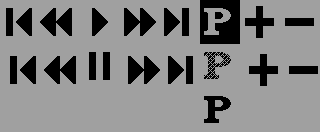
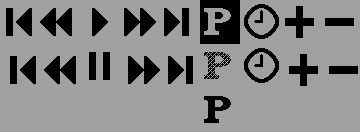
Issue #96 - Add Anim Set Rate to menu and anim toolbar

Changed region(s): [[0.0312, 0.0, 0.9062, 0.3333], [0.0312, 0.3636, 0.9375, 0.6667], [0.5625, 0.7273, 0.7188, 0.9394]]

diff --git a/libs/animation.py b/libs/animation.py
@@ -96,7 +96,7 @@ class PalKeyListGadget(ListGadget):
                             self.drawGhost(screen, bgcolor, [x+offset[0]+2*px, y+offset[1]+2*py+(i-topi)*font.ysize, w-4*px, font.ysize])
                 screen.set_clip(None)
 
-        
+
 
 class Frame:
     def __init__(self, image=None, delay=3, pal=None, truepal=None, is_pal_key = False):
@@ -263,6 +263,9 @@ class Animation:
 
     def pal_keyframe_list(self):
         self.pal_keyframe_list_req(config.pixel_req_canvas)
+
+    def fps_list(self):
+        self.fps_list_req(config.pixel_req_canvas)
 
     def play(self, loop=False, ping_pong=False, reverse=False, stop=False):
         #print(f"play({loop=}, {ping_pong=}, {reverse=}, {stop=})")
@@ -871,3 +874,191 @@ Frames: ___________________
         config.recompose()
 
         return result
+
+
+    def format_fps(self, delay):
+        fps_str = "  0"
+        if delay > 60:
+            fps_str = ("%1.2f" % (60 / delay))[-3:]
+        elif delay != 0:
+            fps_str = "%3d" % (60 // delay)
+        return fps_str
+
+    def format_delay(self, delay):
+        delay_str = "%4d" % delay
+        return delay_str
+
+    def format_range(self, low, high):
+        if low == high:
+            range_str = "%4d" % (low)
+        else:
+            range_str = "%4d-%d" % (low, high)
+        range_str = range_str + " "*9
+        range_str = range_str[:9]
+        return range_str
+
+    def get_fps_list(self, list_itemsg, delay_list):
+        fps_list = []
+        starti = 1
+        last_delay = delay_list[0]
+        for i in range(len(delay_list)):
+            if delay_list[i] != last_delay:
+                fps_str = self.format_fps(last_delay)
+                delay_str = self.format_delay(last_delay)
+                range_str = self.format_range(starti, i)
+                fps_list.append("%s %s %s" % (fps_str, delay_str, range_str))
+                starti = i+1
+                last_delay = delay_list[i]
+
+        if starti <= config.anim.num_frames:
+            i = config.anim.num_frames
+            fps_str = self.format_fps(delay_list[i-1])
+            delay_str = self.format_delay(delay_list[i-1])
+            range_str = self.format_range(starti, i)
+            fps_list.append("%s %s %s" % (fps_str, delay_str, range_str))
+
+        list_itemsg.items = fps_list
+        list_itemsg.top_item = 0
+        list_itemsg.value = 0
+        list_itemsg.need_redraw = True
+
+    def fps_list_req(self, screen):
+        req = str2req("Set Animation Rate", """
+    Delay Frame
+FPS 1/60s Range
+###################^^ FPS:_____
+###################@@ Delay:_____
+###################@@ [All Frames]
+###################@@ [This Frame]
+###################@@ ____________
+###################@@
+###################@@ [Update]
+###################@@
+###################@@
+###################^^
+[Cancel][Undo][OK]
+""", "#^@", mouse_pixel_mapper=config.get_mouse_pixel_pos, custom_gadget_type=ListGadget, font=config.font)
+        req.center(screen)
+        config.pixel_req_rect = req.get_screen_rect()
+
+        #list items
+        list_itemsg = req.gadget_id("0_2")
+        delay_list = []
+        for i in range(config.anim.num_frames):
+            delay_list.append(config.anim.frame[i].delay)
+        self.get_fps_list(list_itemsg, delay_list)
+
+        #list up/down arrows
+        list_upg = req.gadget_id("19_2")
+        list_upg.value = -1
+        list_downg = req.gadget_id("19_11")
+        list_downg.value = 1
+
+        #list slider
+        list_sliderg = req.gadget_id("19_3")
+        list_sliderg.value = list_itemsg.top_item
+
+        #all list item gadgets
+        listg_list = [list_itemsg, list_upg, list_downg, list_sliderg]
+        list_itemsg.listgadgets = listg_list
+        list_upg.listgadgets = listg_list
+        list_downg.listgadgets = listg_list
+        list_sliderg.listgadgets = listg_list
+
+        items = list_itemsg.items[0].split()
+
+        #Frames Per Second
+        fpsg = req.gadget_id("26_2")
+        fpsg.value = items[0]
+        fpsg.numonly = True
+        fpsg.need_redraw = True
+
+        #Delay (1/60s)
+        delayg = req.gadget_id("28_3")
+        delayg.value = items[1]
+        delayg.numonly = True
+        delayg.need_redraw = True
+
+        #Frame Range
+        frangeg = req.gadget_id("22_6")
+        frangeg.value = items[2]
+        frangeg.need_redraw = True
+
+        req.draw(screen)
+        config.recompose()
+
+        running = 1
+        refresh_fields = False
+        while running:
+            event = pygame.event.wait()
+            gevents = req.process_event(screen, event)
+
+            if event.type == KEYDOWN:
+                if event.key == K_ESCAPE:
+                    running = 0
+                elif event.key in [K_UP, K_DOWN]:
+                    refresh_fields = True
+
+            for ge in gevents:
+                if ge.gadget == list_itemsg:
+                    refresh_fields = True
+
+                if ge.gadget == fpsg:
+                    if re.fullmatch('^\d*\.?\d+$', fpsg.value) and \
+                       float(fpsg.value) > 0:
+                        delayg.value = str(int(60 / float(fpsg.value)))
+                        delayg.need_redraw = True
+                elif ge.gadget == delayg:
+                    if re.fullmatch('^\d+$', delayg.value) and \
+                       int(delayg.value) != 0:
+                        fpsg.value = self.format_fps(int(delayg.value)).strip()
+                        fpsg.need_redraw = True
+                elif ge.gadget.type == Gadget.TYPE_BOOL:
+                    listi = list_itemsg.value
+
+                    if ge.gadget.label == "OK" and not req.has_error():
+                        for i in range(config.anim.num_frames):
+                            config.anim.frame[i].delay = delay_list[i]
+                        running = 0
+                    elif ge.gadget.label == "Cancel":
+                        running = 0
+                    elif ge.gadget.label == "Undo":
+                        delay_list = []
+                        for i in range(config.anim.num_frames):
+                            delay_list.append(config.anim.frame[i].delay)
+                        self.get_fps_list(list_itemsg, delay_list)
+                        refresh_fields = True
+                    elif ge.gadget.label == "All Frames":
+                        frangeg.value = "1-" + str(config.anim.num_frames)
+                        frangeg.need_redraw = True
+                    elif ge.gadget.label == "This Frame":
+                        frangeg.value = str(config.anim.curr_frame)
+                        frangeg.need_redraw = True
+                    elif ge.gadget.label == "Update" and not req.has_error():
+                        if int(delayg.value) > 0:
+                            set_range = self.get_list_from_range(frangeg.value)
+                            for frameno in set_range:
+                                delay_list[frameno-1] = int(delayg.value)
+                            self.get_fps_list(list_itemsg, delay_list)
+                            refresh_fields = True
+
+            if refresh_fields:
+                listi = list_itemsg.value
+                items = list_itemsg.items[listi].split()
+                fpsg.value = items[0]
+                fpsg.need_redraw = True
+                delayg.value = items[1]
+                delayg.need_redraw = True
+                frangeg.value = items[2]
+                frangeg.need_redraw = True
+                refresh_fields = False
+
+            if not pygame.event.peek((KEYDOWN, KEYUP, MOUSEBUTTONDOWN, MOUSEBUTTONUP, MOUSEMOTION, VIDEORESIZE)):
+                req.draw(screen)
+                config.recompose()
+
+        config.pixel_req_rect = None
+        self.show_curr_frame()
+
+        return
+

diff --git a/libs/animtools.py b/libs/animtools.py
@@ -74,12 +74,12 @@ class DoPaletteKey(AnimToolAction):
     def selected(self, attrs):
         config.anim.pal_keyframe_list()
 
-class DoAddFrame(AnimToolAction):
+class DoFPS(AnimToolAction):
     """
-    Add animation frame
+    Do frames per second requestor
     """
     def selected(self, attrs):
-        config.anim.add_frame()
+        config.anim.fps_list()
 
 class DoAddFrame(AnimToolAction):
     """
@@ -103,7 +103,7 @@ def init_animtoolbar(config_in):
     scaleY = config.fonty // 12
     scaledown = 4 // min(scaleX,scaleY)
     minitools_image = imgload('animtools.png', scaleX=scaleX, scaleY=scaleY, scaledown=scaledown)
-    numtools=8
+    numtools=9
     numsubtools=3
     h = minitools_image.get_height()//numsubtools
     w = minitools_image.get_width()
@@ -118,6 +118,7 @@ def init_animtoolbar(config_in):
         ["next",        ToolGadget.TT_SINGLE, "", DoNext],
         ["last",        ToolGadget.TT_SINGLE, "", DoLast],
         ["palettekey",  ToolGadget.TT_SINGLE, "", DoPaletteKey],
+        ["fps",         ToolGadget.TT_SINGLE, "", DoFPS],
         ["addframe",    ToolGadget.TT_SINGLE, "", DoAddFrame],
         ["deleteframe", ToolGadget.TT_SINGLE, "", DoDeleteFrame]
     ])
@@ -127,6 +128,8 @@ def init_animtoolbar(config_in):
     minitoolbar.tool_id("play").has_subtool = False
     minitoolbar.tool_id("next").has_subtool = False
     minitoolbar.tool_id("last").has_subtool = False
+    minitoolbar.tool_id("palettekey").has_subtool = False
+    minitoolbar.tool_id("fps").has_subtool = False
     minitoolbar.tool_id("addframe").has_subtool = False
     minitoolbar.tool_id("deleteframe").has_subtool = False
 

diff --git a/libs/menus.py b/libs/menus.py
@@ -41,6 +41,10 @@ class MenuActionMulti(MenuAction):
         config.save_undo()
         config.doKeyAction()
 
+class DoDummy(MenuAction):
+    def selected(self, attrs):
+        pass
+
 class DoNew(MenuAction):
     def selected(self, attrs):
         config.stencil.enable = False
@@ -1044,6 +1048,10 @@ class DoAnimFrameDeleteAll(MenuAction):
     def selected(self, attrs):
         config.anim.delete_all_frames()
 
+class DoAnimControlSetRate(MenuAction):
+    def selected(self, attrs):
+        config.anim.fps_list_req(config.pixel_req_canvas)
+
 class DoStencilMake(MenuAction):
     def selected(self, attrs):
         stencil_req(config.pixel_req_canvas)
@@ -1300,7 +1308,15 @@ def init_menubar(config_in):
                 ["Delete Frames", " ", DoAnimFrameDelete],
                 ["Delete All", " ", DoAnimFrameDeleteAll],
             ]],
-            ["Control"],
+            ["Control", [
+                ["Set Rate...", " ", DoAnimControlSetRate],
+                ["Previous", "1", DoDummy],
+                ["Next", "2", DoDummy],
+                ["Go to...", "3", DoDummy],
+                ["Play", "4", DoDummy],
+                ["Play once", "5", DoDummy],
+                ["Ping-pong", "6", DoDummy],
+            ]],
             ["Anim Brush"],
         ]])
 
